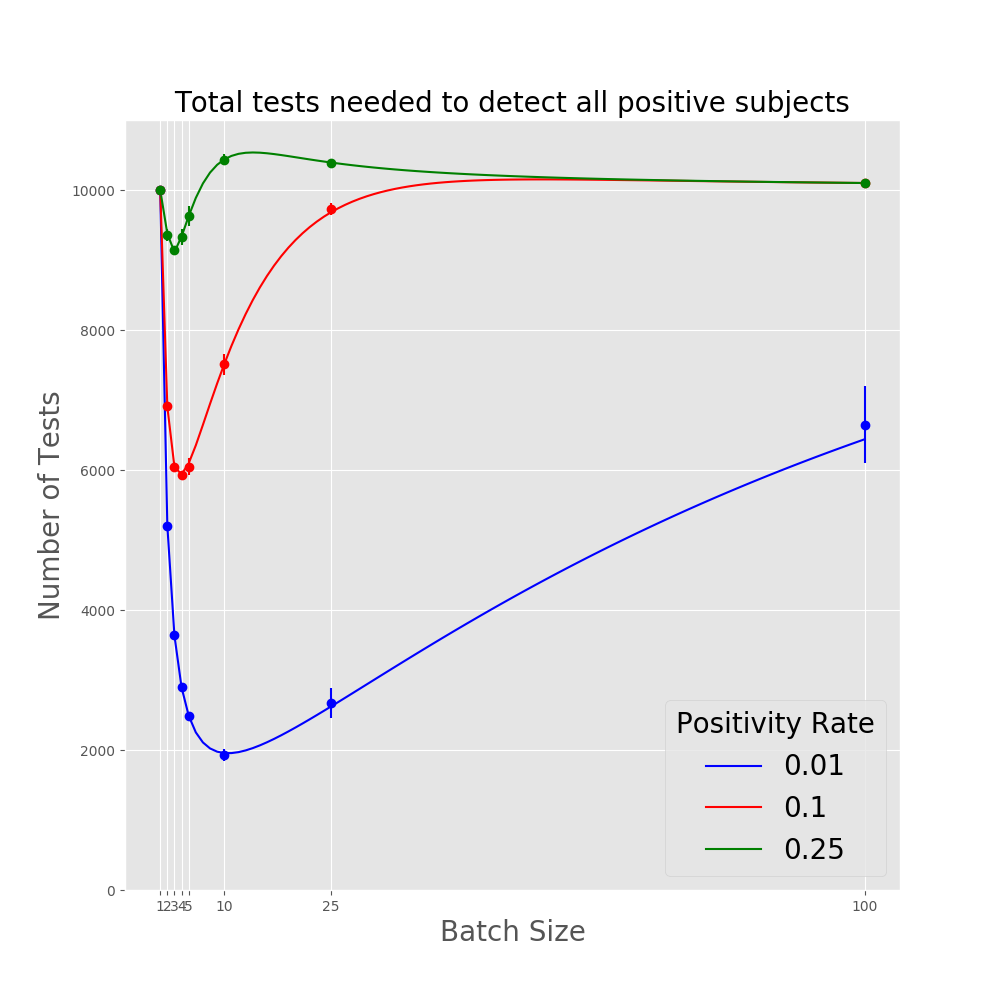
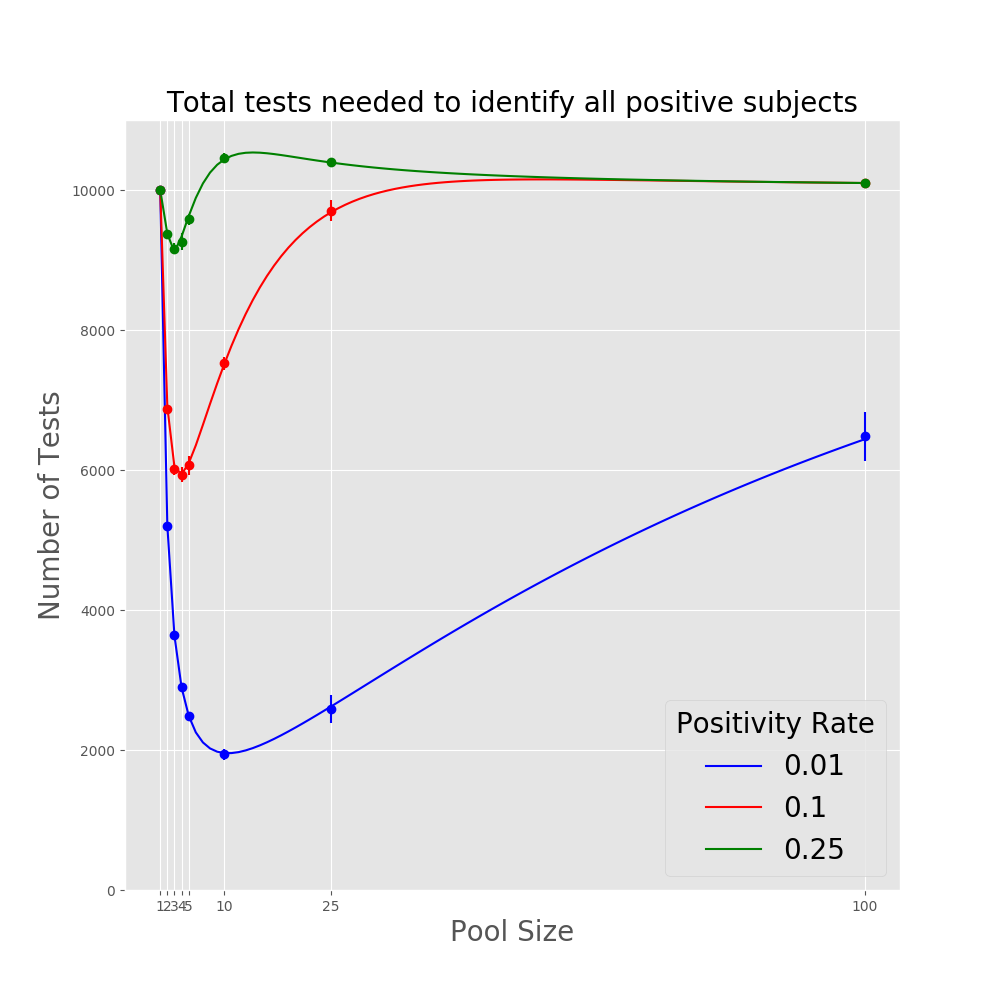
fixing text

diff --git a/_posts/2020-07-27-covid-testing.md b/_posts/2020-07-27-covid-testing.md
@@ -4,26 +4,26 @@ title:  "Optimizing COVID-19 Pooled Testing"
 date:   2020-07-27 8:00:00 -0800
 tags: news
 ---
-We had our first experience with COVID testing in early July when my wife needed to have a test done before starting a new job. As an asymptomatic, non-exposed person, she was able to get a test with an appointment through OneMedical, but it took 7 days to get the antibody test results and 10 days to get the virus test results. Obviously, a 10 day wait is not ideal, and even [longer wait times](https://www.buzzfeednews.com/article/davidmack/coronavirus-testing-delays-backlog) are [becoming common](https://khn.org/news/states-search-for-ways-to-deal-with-covid-19-testing-backlogs/).
+We had our first experience with COVID testing in early July when my wife needed to get tested before starting a new job. As an asymptomatic, non-exposed person, she was able to get a test through an appointment with One Medical, but it took 7 days to get the antibody test results and 10 days to get the virus test results. Obviously, a 10-day wait is not ideal, and even [longer wait times](https://www.buzzfeednews.com/article/davidmack/coronavirus-testing-delays-backlog) are [becoming common](https://khn.org/news/states-search-for-ways-to-deal-with-covid-19-testing-backlogs/).
 
-In an attempt to relieve test backlogs, the [FDA announced in June](https://www.fda.gov/news-events/press-announcements/coronavirus-covid-19-update-facilitating-diagnostic-test-availability-asymptomatic-testing-and) that they would help test developers validate protocols for pooling samples, and [announced last week](https://www.fda.gov/news-events/press-announcements/coronavirus-covid-19-update-fda-issues-first-emergency-authorization-sample-pooling-diagnostic) that they had approved the Quest Diagnostics COVID-19 test as the first to be approved for use with pooled samples.
+In an attempt to relieve test backlogs, the [FDA announced in June](https://www.fda.gov/news-events/press-announcements/coronavirus-covid-19-update-facilitating-diagnostic-test-availability-asymptomatic-testing-and) that they would help test developers validate protocols for testing pooled samples, and [announced last week](https://www.fda.gov/news-events/press-announcements/coronavirus-covid-19-update-fda-issues-first-emergency-authorization-sample-pooling-diagnostic) that the Quest Diagnostics COVID-19 test has been  the first to be approved for use on pooled samples.
 
-Unfortunately, [some reporting](https://www.marketwatch.com/story/fda-approves-faster-quest-covid-19-test-for-pooled-sample-use-2020-07-19) is saying that the technique is not effective when the test positivity rate is above 10%, a threshold being surpassed by [a large number](https://coronavirus.jhu.edu/testing/individual-states) of states. Arizona seems to be even on track to pass 25%.
+Unfortunately, [some reporting](https://www.marketwatch.com/story/fda-approves-faster-quest-covid-19-test-for-pooled-sample-use-2020-07-19) is saying that pooling is not effective when the test positivity rate is above 10%, a threshold being surpassed by [a large number](https://coronavirus.jhu.edu/testing/individual-states) of states. Arizona seems to be on track to even pass 25%.
 
-Thankfully, that belief seems to be incorrect, as I will explain below. Pooling remains effective even at a 25% test positivity rate, and there are strategies available to improve the effectiveness of pooling.
+Thankfully, that belief seems to be incorrect. As I will explain below, pooling remains effective even at a 25% test positivity rate, and there are strategies available to improve the effectiveness of pooling.
 
 ## How Does Pooling Work?
-The idea between test pooling is pretty simple. Instead of testing each sample individually, portions of each sample are mixed into pools with other samples. For example, a lab might pool 10 samples together. If the pooled sample tests negative, all samples are negative. If the pooled sample tests positive, then all individual samples are tested. This strategy is effective when the test is highly sensitive, which the COVID-19 PCR tests are.
+The idea behind test pooling is pretty simple. Instead of testing each sample individually, multiple samples are mixed together and tested in aggregate. For example, a lab might combine 10 samples together and then perform a single test on the pooled sample. If the pool tests negative, all samples are negative. If the pool tests positive, then all individual samples are tested. This strategy is effective when the test is highly sensitive, which the COVID-19 PCR tests are.
 
-We can see there's clearly an opportunity for optimization here. What is the correct number of samples to pool so that the total number of tests needed to identify all positive samples is minimized? If the pool size is too small, then a lot of small pools could have been aggregated into larger pools and still tested negative. If it's too high, then too many pools will test positive and all samples will need to be tested.
+We can see there's clearly an opportunity for optimization here. What is the correct number of samples to pool to minimize the total number of tests needed to identify all positive samples? If the pool size is too small, then a lot of small pools could have been aggregated into larger pools and still tested negative. If it's too large, then too many pools will test positive and all the individual samples will need to be tested again.
 
-Assuming tests are randomly assigned to pools, it's straightforward to calculate the probability a pooled sample will test negative, given we know the test positivity rate **p** and number of pooled samples **k**:
+Assuming samples are assigned to pools randomly, it's straightforward to calculate the probability that a pool will test negative, given we know the test positivity rate **p** and number of samples per pool **k**:
 
 <div align="center">
 <img src="/assets/images/covidTest/prob.gif" alt="good" width="278" height="21"/>
 </div>
 
-It's then easy to calculate the total number of tests needed when k > 2:
+It's then easy to calculate the total number of tests needed when k > 1:
 <div align="center">
 <img src="/assets/images/covidTest/total0.gif" alt="good" width="383" height="38"/>
 </div>
@@ -36,7 +36,7 @@ This simplifies to:
 ## Optimizing the Pool Size 
 Unfortunately, the derivative of the above equation is transcendental, so the solutions don't have a nice closed form. However, we can simply plot the function for a number of positivity rates and see where it looks like the minima are. Below, I plot the function for test positivity rates of 0.01 (blue), 0.1 (red), and 0.25 (green). States like Connecticut have their rates even below 0.01. There are quite a few states near 0.1, and, as I mentioned, Arizona is approaching 0.25. For all three cases, I used 10,000 as the total number of samples.
 
-In addition, I ran a quick simulation for 10 runs at each positivity rate at batch sizes of 1, 2, 3, 4, 5, 10, 25, and 100. You can see the mean and variance for the simulation at the points on the plot.
+In addition, I ran a quick simulation for 10 runs at each positivity rate at pool sizes of 1, 2, 3, 4, 5, 10, 25, and 100. You can see the mean and variance for the simulation at the points on the plot.
 
 <div align="center">
 <img src="/assets/images/covidTest/batchSize.png" alt="good" width="500" height="500"/>
@@ -45,7 +45,7 @@ In addition, I ran a quick simulation for 10 runs at each positivity rate at bat
 From this plot, you can see that the best pool size when the positivity rate is 0.01 is 10 and results in 80% savings in terms of test materials. For both 0.1 and 0.25, the best pool size is 3, and result in 40% and 10% savings, respectively. So even at 25% test positivity, there is an opportunity for improving efficiency.
 
 ## Risk Tranches for Increased Efficiency
-Health officials are already experimenting with prioritization to ensure tests for patients in hospitals, elder-care facilities, and other high risk environments are getting returned quickly. The FDA specifically suggested that sample pooling only be done on asymptomatic samples. Here's how that might work.
+Health officials are already implementing prioritization levels to ensure tests for patients in hospitals, elder-care facilities, and other high risk environments are getting returned quickly. The FDA specifically suggested that sample pooling only be done on asymptomatic samples. Here's how that might work.
 
 An option to increase efficiency further is to separate tests based on risk and adopt different pooling strategies for each tranche. Imagine a simple scenario where we separate tests based on whether the person is symptomatic versus asymptomatic. Let's assume that divides the population in half and that the symptomatic population has a test positivity rate of 49% and the asymptomatic population has a test positivity rate of 1%.
 
@@ -58,4 +58,4 @@ Obviously, this type of analysis doesn't include the effect of any operational d
 
 But hopefully, the adoption of pooled testing by Quest and, in the future, other labs will have a significant impact in reducing wait times for people to receive their results. Improving the speed at which asymptomatic people can determine if they're carrying the virus is critical to containing the spread through second-degree interactions.
 
-As for the reduction in wait time, that will be determined by how much this change increases the lab processing through put and how big the backlog is now. If Quest is now able to process more tests per day than are being sent in, they'll start reducing the wait time and eventually be able to return all results within about 1 day, which we know is possible for priority cases. On the other hand, tests are still being throttled in many places to keep the workload manageable, so as throughput increases, the total test count will also increase.
+As for the reduction in wait time, that will be determined by how much this change increases the lab processing through-put and how big the backlog is now. If Quest is now able to process more tests per day than are being sent in, they'll start reducing the wait time and eventually be able to return all results within about 1 day, which we know is possible for priority cases. On the other hand, tests are still being throttled in many places to keep the workload manageable, so as throughput increases, the total test count will also increase.
